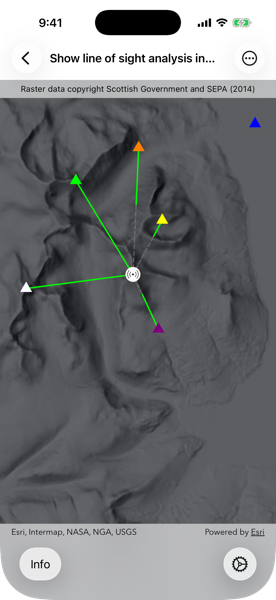
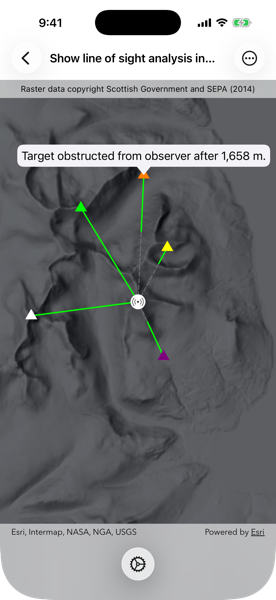
Use callout instead of popover.

diff --git a/Shared/Samples/Show line of sight analysis in map/ShowLineOfSightAnalysisInMapView.swift b/Shared/Samples/Show line of sight analysis in map/ShowLineOfSightAnalysisInMapView.swift
@@ -18,55 +18,80 @@ import SwiftUI
 struct ShowLineOfSightAnalysisInMapView: View {
     /// The view model for the sample.
     @State private var model = Model()
-    /// Information about the line of sight analysis results.
-    @State private var lineOfSightInfos: [LineOfSightInfo] = []
-    /// A Boolean value indicating whether the info view is showing.
-    @State private var isShowingInfoView = false
+    /// The placement of the visibility description callout.
+    @State private var calloutPlacement: CalloutPlacement?
     /// A Boolean value indicating whether the obstructed line of sight graphics are showing.
     @State private var isShowingObstructed = true
     /// The error shown in the error alert.
     @State private var error: (any Error)?
     
+    /// The states of the sample.
+    private enum SampleState: Equatable {
+        /// A line of sight analysis is being run.
+        case evaluatingLinesOfSight
+        /// The given tap point is being identified.
+        case identifying(tapPoint: CGPoint)
+    }
+    /// The current state of the sample.
+    @State private var sampleState: SampleState? = .evaluatingLinesOfSight
+    
     var body: some View {
-        MapView(map: model.map, graphicsOverlays: model.graphicOverlays)
-            .overlay(alignment: .top) {
-                Text("Raster data copyright Scottish Government and SEPA (2014)")
-                    .font(.caption)
-                    .frame(maxWidth: .infinity)
-                    .padding(.vertical, 6)
-                    .background(.thinMaterial, ignoresSafeAreaEdges: .horizontal)
-            }
-            .toolbar {
-                ToolbarItemGroup(placement: .bottomBar) {
-                    Button("Info") {
-                        isShowingInfoView.toggle()
+        MapViewReader { mapViewProxy in
+            MapView(map: model.map, graphicsOverlays: model.graphicOverlays)
+                .callout(placement: $calloutPlacement.animation(.default.speed(2))) { placement in
+                    if let attributes = placement.geoElement?.attributes,
+                       let visibilityDescription = attributes[.visibilityDescription] as? String {
+                        Text(visibilityDescription)
+                            .padding(6)
                     }
-                    .popover(isPresented: $isShowingInfoView) {
-                        List(lineOfSightInfos, id: \.self) { info in
-                            LineOfSightInfoView(info: info)
+                }
+                .onSingleTapGesture { screenPoint, _ in
+                    guard sampleState == nil else { return }
+                    sampleState = .identifying(tapPoint: screenPoint)
+                }
+                .task(id: sampleState) {
+                    guard let sampleState else { return }
+                    defer { self.sampleState = nil }
+                    
+                    do {
+                        switch sampleState {
+                        case .evaluatingLinesOfSight:
+                            try await model.evaluateLinesOfSight()
+                        case let .identifying(tapPoint):
+                            calloutPlacement = nil
+                            
+                            let identifyResult = try await mapViewProxy.identify(
+                                on: model.observerGraphicsOverlay,
+                                screenPoint: tapPoint,
+                                tolerance: 10
+                            )
+                            
+                            guard let observerGraphic = identifyResult.graphics.first else { return }
+                            calloutPlacement = .geoElement(observerGraphic)
                         }
-                        .presentationDetents([.fraction(0.5)])
-                        .frame(idealWidth: 320, idealHeight: 380)
-                    }
-                    
-                    Spacer()
-                    
-                    Menu("Settings", systemImage: "gear") {
-                        Toggle("Show Obstructed", isOn: $isShowingObstructed)
-                            .onChange(of: isShowingObstructed) {
-                                model.setObstructedVisibility(isVisible: isShowingObstructed)
-                            }
+                    } catch {
+                        self.error = error
                     }
                 }
-            }
-            .task {
-                do {
-                    lineOfSightInfos = try await model.evaluateLinesOfSight()
-                } catch {
-                    self.error = error
+                .errorAlert(presentingError: $error)
+        }
+        .overlay(alignment: .top) {
+            Text("Raster data copyright Scottish Government and SEPA (2014)")
+                .font(.caption)
+                .frame(maxWidth: .infinity)
+                .padding(.vertical, 6)
+                .background(.thinMaterial, ignoresSafeAreaEdges: .horizontal)
+        }
+        .toolbar {
+            ToolbarItem(placement: .bottomBar) {
+                Menu("Settings", systemImage: "gear") {
+                    Toggle("Show Obstructed", isOn: $isShowingObstructed)
+                        .onChange(of: isShowingObstructed) {
+                            model.setObstructedVisibility(isVisible: isShowingObstructed)
+                        }
                 }
             }
-            .errorAlert(presentingError: $error)
+        }
     }
 }
 
@@ -78,21 +103,24 @@ private final class Model {
     /// A map with a dark hillshade basemap initially centered on the Isle of Arran, Scotland.
     let map: Map = {
         let map = Map(basemapStyle: .arcGISHillshadeDark)
-        let initialExtent = Envelope(xRange: -584770 ... -570630, yRange: 7471510 ... 7494260)
+        let initialExtent = Envelope(xRange: -585030 ... -570890, yRange: 7472900 ... 7495670)
         map.initialViewpoint = Viewpoint(boundingGeometry: initialExtent)
         return map
     }()
     
     /// The overlays containing the graphics to display on the map.
     var graphicOverlays: [GraphicsOverlay] {
-        return [lineOfSightGraphicsOverlay, positionGraphicsOverlay]
+        return [lineOfSightGraphicsOverlay, targetGraphicsOverlay, observerGraphicsOverlay]
     }
+    
+    /// The overlay containing the observer position graphics.
+    let observerGraphicsOverlay = GraphicsOverlay()
+    
+    /// The overlay containing the target position graphic.
+    private let targetGraphicsOverlay = GraphicsOverlay()
     
     /// The overlay containing the line of sight analysis result graphics.
     private let lineOfSightGraphicsOverlay = GraphicsOverlay()
-    
-    /// The overlay containing the target and observer position graphics.
-    private let positionGraphicsOverlay = GraphicsOverlay()
     
     /// The height of the target and observer position points.
     private static let positionHeight = 5.0
@@ -135,16 +163,15 @@ private final class Model {
         beaconSymbol.height = 22
         
         let targetGraphic = Graphic(geometry: targetPoint, symbol: beaconSymbol)
-        positionGraphicsOverlay.addGraphic(targetGraphic)
+        targetGraphicsOverlay.addGraphic(targetGraphic)
         
         let observerGraphics = observers.map { Graphic(geometry: $0.point, symbol: $0.symbol) }
-        positionGraphicsOverlay.addGraphics(observerGraphics)
+        observerGraphicsOverlay.addGraphics(observerGraphics)
     }
     
     /// Runs a line of sight analysis.
-    /// - Returns: Information about the line of sight results.
     @MainActor
-    func evaluateLinesOfSight() async throws -> [LineOfSightInfo] {
+    func evaluateLinesOfSight() async throws {
         // Creates a continuous field using a TIF file containing elevation data.
         let elevationField = try await ContinuousField.field(fromFilesAt: [.arranTIF], bandIndex: 0)
         
@@ -170,8 +197,11 @@ private final class Model {
         let lineOfSightGraphics = makeLineOfSightGraphics(lineOfSightResults)
         lineOfSightGraphicsOverlay.addGraphics(lineOfSightGraphics)
         
-        return zip(lineOfSightResults, observers).map { lineOfSight, observer in
-            LineOfSightInfo(lineOfSight, observerSymbol: observer.symbol)
+        // Adds descriptions of the results' visibility to the corresponding observer graphics.
+        let lineOfSightObserverPairs = zip(lineOfSightResults, observerGraphicsOverlay.graphics)
+        for (lineOfSight, observerGraphic) in lineOfSightObserverPairs {
+            let visibilityDescription = lineOfSight.visibilityDescription
+            observerGraphic.setAttributeValue(visibilityDescription, forKey: .visibilityDescription)
         }
     }
     
@@ -179,7 +209,7 @@ private final class Model {
     /// - Parameter isVisible: A Boolean value indicating whether the graphics should be visible.
     func setObstructedVisibility(isVisible: Bool) {
         for graphic in lineOfSightGraphicsOverlay.graphics {
-            guard let targetVisibility = graphic.attributes["targetVisibility"] as? Float,
+            guard let targetVisibility = graphic.attributes[.targetVisibility] as? Float,
                   targetVisibility != 1 else {
                 continue
             }
@@ -195,12 +225,12 @@ private final class Model {
         return linesOfSight.flatMap { linesOfSight in
             let visibleLineGraphic = Graphic(
                 geometry: linesOfSight.visibleLine,
-                attributes: ["targetVisibility": linesOfSight.targetVisibility],
+                attributes: [.targetVisibility: linesOfSight.targetVisibility],
                 symbol: visibleLineSymbol
             )
             let notVisibleLineGraphic = Graphic(
                 geometry: linesOfSight.notVisibleLine,
-                attributes: ["targetVisibility": linesOfSight.targetVisibility],
+                attributes: [.targetVisibility: linesOfSight.targetVisibility],
                 symbol: notVisibleLineSymbol
             )
             return [visibleLineGraphic, notVisibleLineGraphic]
@@ -208,23 +238,18 @@ private final class Model {
     }
 }
 
-// MARK: - LineOfSightInfo
+// MARK: Extensions
 
-/// Information about a line of sight analysis result.
-private struct LineOfSightInfo: Hashable {
-    /// The description of the line of sight result.
-    let description: String
-    /// The symbol of the line of sight's observer.
-    let observerSymbol: Symbol
-    
-    init(_ lineOfSight: LineOfSight, observerSymbol: Symbol) {
-        if let error = lineOfSight.error {
+private extension LineOfSight {
+    /// A description of the line of sight's visibility.
+    var visibilityDescription: String {
+        if let error {
             // Uses the error as the description if line of sight could not be evaluated.
-            let illegalStateError = lineOfSight.error as? IllegalStateError
-            description = illegalStateError?.details ?? error.localizedDescription
+            let illegalStateError = error as? IllegalStateError
+            return illegalStateError?.details ?? error.localizedDescription
         } else {
             // Calculates the visible distance from the observer in meters.
-            let visibleLength = if let visibleLine = lineOfSight.visibleLine {
+            let visibleLength = if let visibleLine {
                 GeometryEngine.geodeticLength(of: visibleLine, lengthUnit: .meters, curveType: .geodesic)
             } else {
                 0.0
@@ -232,48 +257,21 @@ private struct LineOfSightInfo: Hashable {
             let formattedVisibleLength = visibleLength.formatted(.number.rounded(increment: 1))
             
             // Uses `notVisibleLine` to determine if the target is visible from the observer.
-            description = if lineOfSight.notVisibleLine == nil {
+            return if notVisibleLine == nil {
                 "Target visible from observer after \(formattedVisibleLength) m."
             } else {
                 "Target obstructed from observer after \(formattedVisibleLength) m."
             }
         }
-        
-        self.observerSymbol = observerSymbol
     }
 }
 
-/// A view that displays information about a line of sight analysis result.
-private struct LineOfSightInfoView: View {
-    /// The line of sight information to display.
-    let info: LineOfSightInfo
-    
-    /// The display scale of this environment.
-    @Environment(\.displayScale) private var displayScale
-    
-    /// An image of the observer's symbol.
-    @State private var observerSymbolSwatch: UIImage?
-    
-    var body: some View {
-        Label {
-            Text(info.description)
-        } icon: {
-            if let observerSymbolSwatch {
-                Image(uiImage: observerSymbolSwatch)
-            } else {
-                Image(systemName: "xmark")
-            }
-        }
-        .task {
-            observerSymbolSwatch = try? await info.observerSymbol.makeSwatch(
-                scale: displayScale,
-                size: CGSize(width: 24, height: 24)
-            )
-        }
-    }
+private extension String {
+    /// A key for an attribute that describes a line of sight's visibility.
+    static var visibilityDescription: String { "visibilityDescription" }
+    /// A key for an attribute that contains a line of sight's target visibility.
+    static var targetVisibility: String { "targetVisibility" }
 }
-
-// MARK: - Extensions
 
 private extension URL {
     /// A URL to a local GeoTIFF file containing elevation data of the Isle of Arran, Scotland.

diff --git a/Shared/Samples/Show line of sight analysis in map/README.md b/Shared/Samples/Show line of sight analysis in map/README.md
@@ -12,7 +12,7 @@ Note: This analysis is a form of "data-driven analysis", which means the analysi
 
 ## How to use the sample
 
-The sample loads with a map centered on the Isle of Arran, Scotland, and runs a line of sight analysis from multiple observer points (triangles) to a fixed target point (beacon icon) located at the highest point of the island. Solid green line segments represent visible portions of each line of sight result, and dashed gray segments represent not visible portions. For each observer, the information view shows whether the target is visible and over what distance the line remains unobstructed. Use the toggle to show only results where the target is visible from the observer.
+The sample loads with a map centered on the Isle of Arran, Scotland, and runs a line of sight analysis from multiple observer points (triangles) to a fixed target point (beacon icon) located at the highest point of the island. Solid green line segments represent visible portions of each line of sight result, and dashed gray segments represent not visible portions. Tap on each observer to see a callout that reports whether the target is visible and over what distance the line remains unobstructed. Use the toggle to show only results where the target is visible from the observer.
 
 ## How it works
 
@@ -23,10 +23,9 @@ The sample loads with a map centered on the Isle of Arran, Scotland, and runs a 
 5. Configure `LineOfSightParameters` with `ObserverTargetPairs`, using the list of observer and target line of sight positions.
 6. Create a `LineOfSightFunction` from the continuous field and line of sight parameters.
 7. Evaluate the function to get `LineOfSight` results.
-8. Check if the results contain any `LineOfSight.error`s.
-9. Create a `Graphic` from each result, using the geometry of the result's `visibleLine` or `notVisibleLine` result, and an appropriate symbol.
-10. Use `LineOfSight.targetVisibility` to determine if the observer position has a direct line of sight to the target position.
-11. Get the length of the visible line result with `GeometryEngine.geodeticLength` to report results.
+8. Create a `Graphic` from each result, using the geometry of the result's `visibleLine` or `notVisibleLine` result, and an appropriate symbol.
+9. Use `LineOfSight.targetVisibility` to determine if the observer position has a direct line of sight to the target position.
+10. Get the length of the visible line result with `GeometryEngine.geodeticLength` to report results.
 
 ## Relevant API
 
